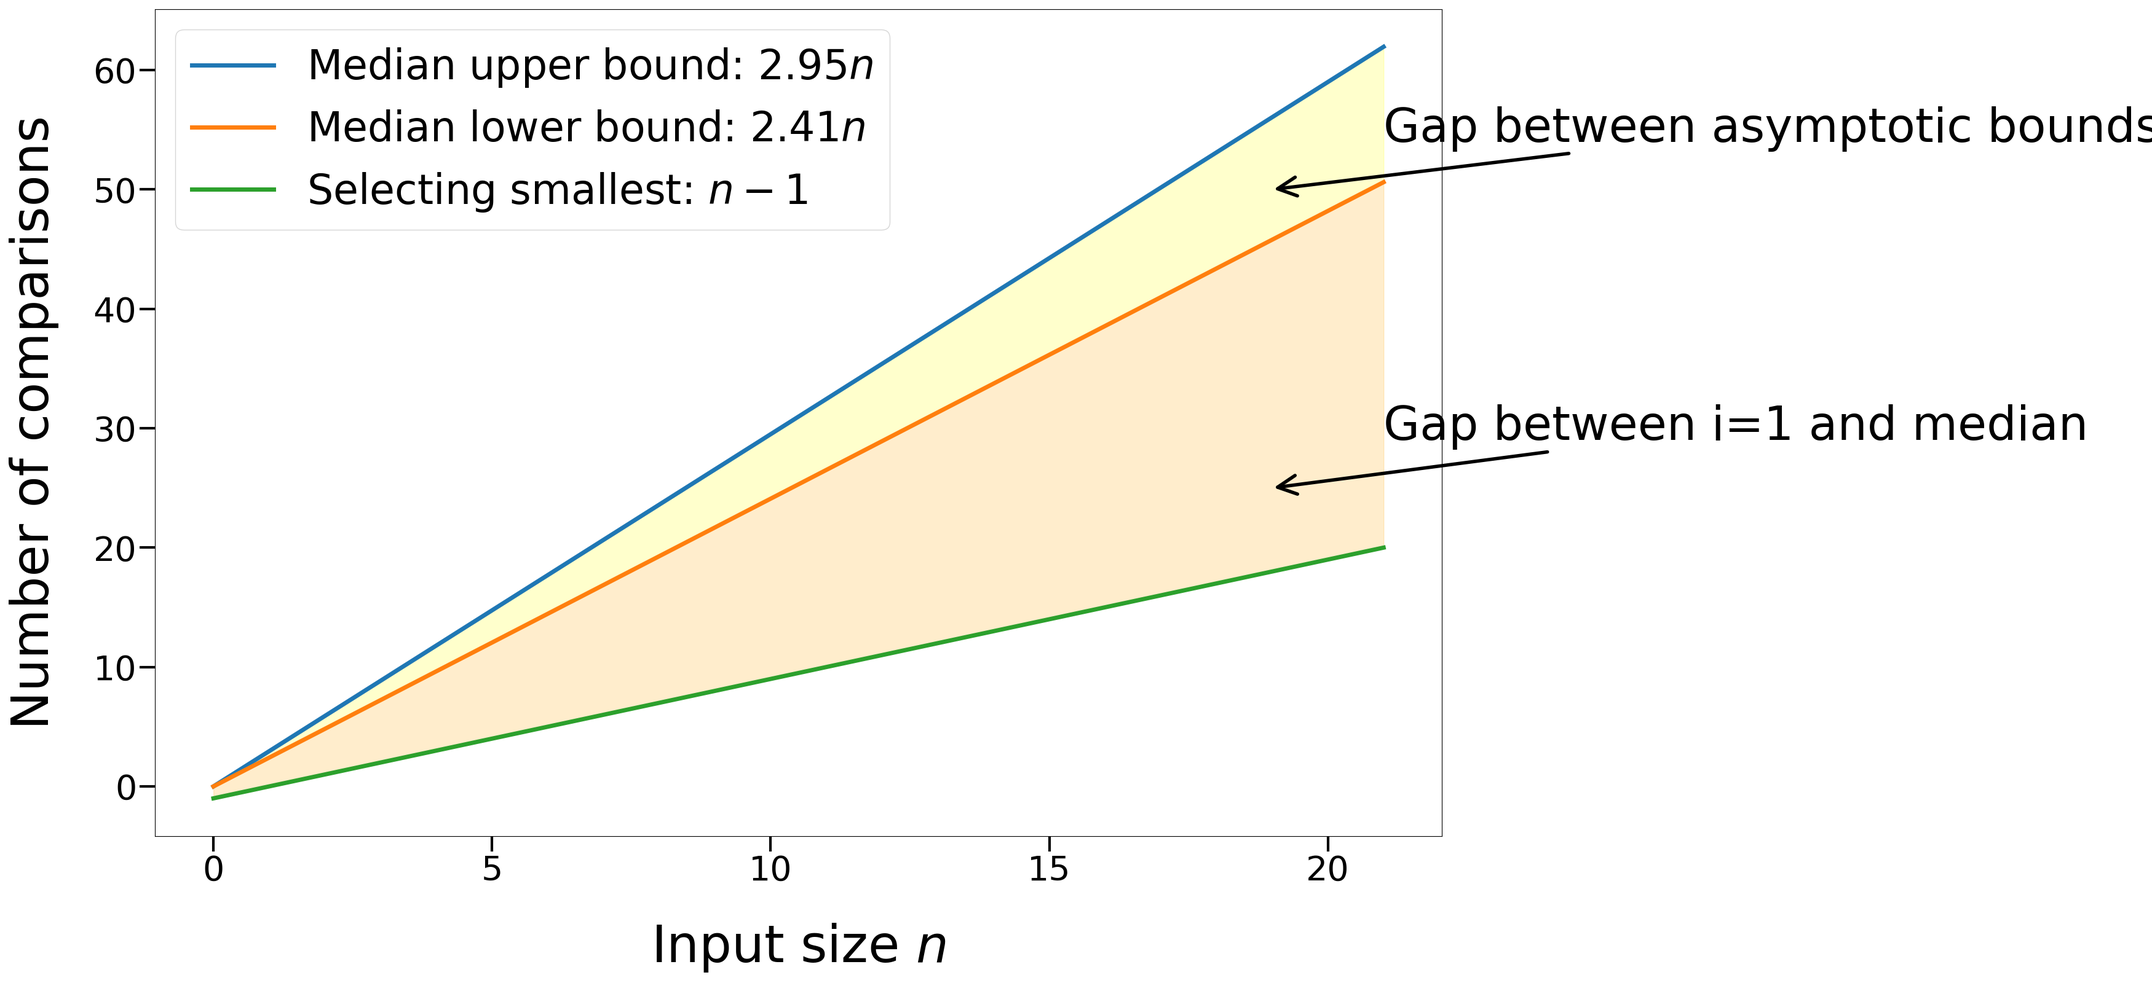
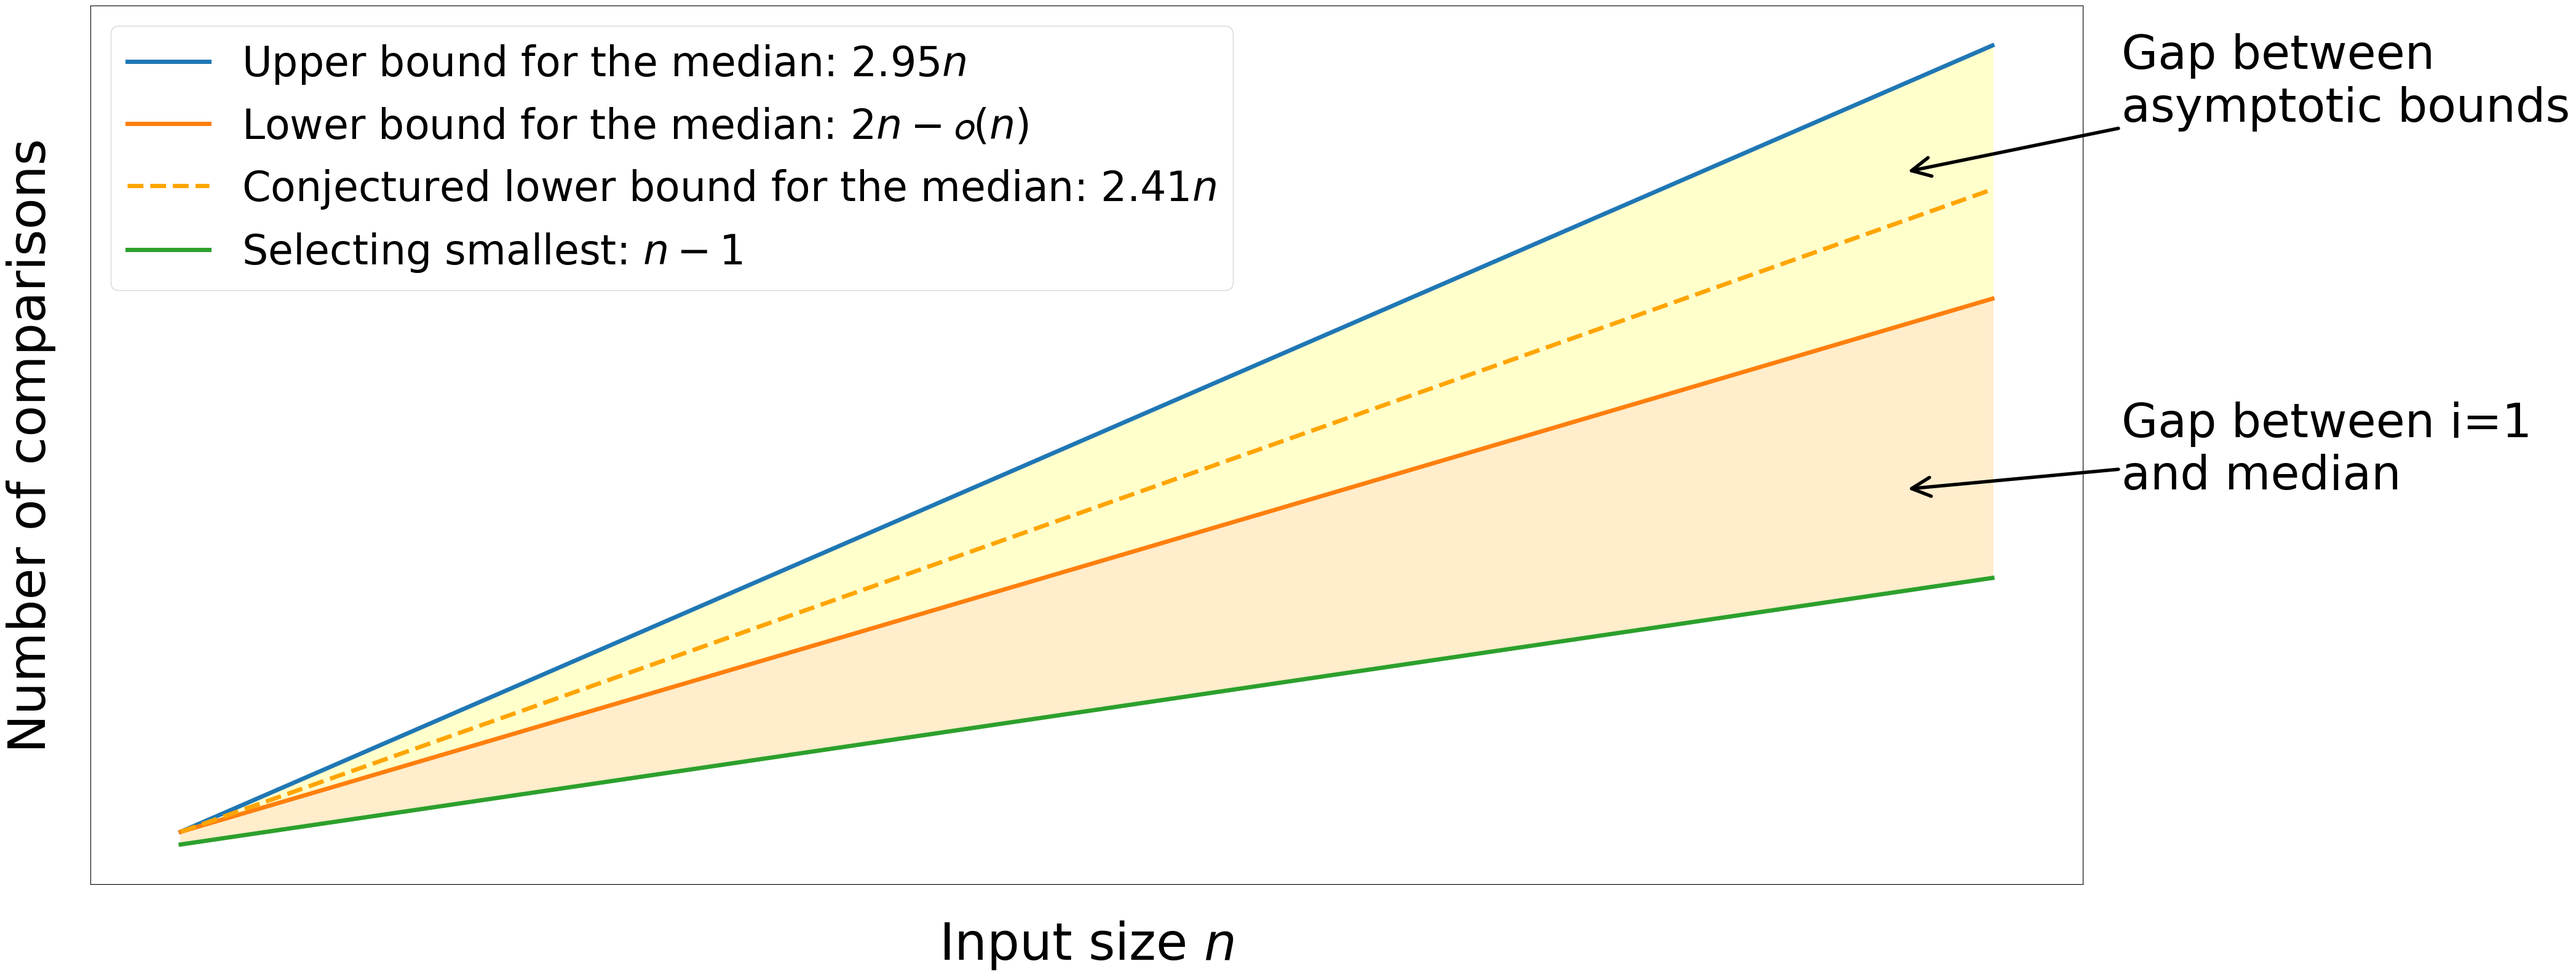
clarify conjectured lower bound

diff --git a/tex/presentation-sea/figures/bounds_diagram.py b/tex/presentation-sea/figures/bounds_diagram.py
@@ -5,30 +5,30 @@ import numpy as np
 n = np.linspace(0, 21, 100)  # Sample n values
 
 # Plot lines
-plt.figure(figsize=(35,16))
-plt.plot(n, 2.95 * n, label='Median upper bound: $2.95n$', linewidth=5)
-plt.plot(n, 2.41 * n, label='Median lower bound: $2.41n$', linewidth=5)
+plt.figure(figsize=(42,16))
+plt.plot(n, 2.95 * n, label='Upper bound for the median: $2.95n$', linewidth=5)
+plt.plot(n, 2* n, label='Lower bound for the median: $2n - \mathcal{o}(n)$', linewidth=5)
+plt.plot(n, 2.41 * n, label='Conjectured lower bound for the median: $2.41n$', linestyle='--', color='orange',linewidth=5 )
 plt.plot(n, n - 1, label='Selecting smallest: $n-1$', linewidth=5)
 
 # Shade the gap between lower and upper bounds
-plt.fill_between(n, n - 1, 2.41*n, alpha=0.2, color='orange')
-plt.fill_between(n, 2.41 * n, 2.95 * n, alpha=0.2, color='yellow')
+plt.fill_between(n, n - 1, 2*n, alpha=0.2, color='orange')
+plt.fill_between(n, 2* n, 2.95 * n, alpha=0.2, color='yellow')
 
 # Annotations
-mid_n = 19
-mid_val = 50
-plt.annotate('Gap between asymptotic bounds',
+mid_n = 20
+mid_val = 52
+plt.annotate('Gap between\nasymptotic bounds',
              xy=(mid_n, mid_val),
-             xytext=(mid_n + 2, mid_val + 4),
+             xytext=(mid_n + 2.5, mid_val+4),
              arrowprops=dict(arrowstyle='->',color='black', linewidth=4),
              fontsize=55,
              )
 
-mid_n = 19
-mid_val = 25
-plt.annotate('Gap between i=1 and median',
+mid_val = 27
+plt.annotate('Gap between i=1\nand median',
              xy=(mid_n, mid_val),
-             xytext=(mid_n + 2, mid_val + 4),
+             xytext=(mid_n + 2.5, mid_val),
              arrowprops=dict(arrowstyle='->',color='black', linewidth=4),
              fontsize=55,
              )
@@ -37,9 +37,10 @@ plt.annotate('Gap between i=1 and median',
 plt.xlabel('Input size $n$', fontsize=60, labelpad=40)
 plt.ylabel('Number of comparisons', fontsize=60, labelpad=40)
 plt.tick_params(axis='both', length=18, width=3, labelsize=40)
-plt.xticks(np.arange(0, 21, 5), fontsize=40)
+plt.xticks([], labels=[], fontsize=40)
+plt.yticks([])
 plt.legend(fontsize=48)
 plt.tight_layout()
 
 # Display
-plt.savefig("tex/presentation-sea/figures/bounds_diagram.png")
+plt.savefig("tex/presentation-sea/figures/bounds_diagram.png", bbox_inches='tight')

diff --git a/tex/presentation-sea/slides.tex b/tex/presentation-sea/slides.tex
@@ -52,8 +52,9 @@
   \begin{itemize}
     \item<+-> Let $V_i^n$ be the worst-case number of comparisons for an optimal algorithm.
     \item<+-> Selecting the minimum is simple: $V_1^n= n-1$.
-    \item<+-> The best-known upper bound for selecting the median is $\approx 2.95n$ comparisons.
-    \item<+-> The assumed lower bound for the median is $\approx 2.41n$ comparisons (Schönhage et al.).
+    \item<+-> The best-known upper bound for selecting the median is $\approx 2.95n$.
+    \item<+-> The proven lower bound for the median is $2n$ (Bent and John).
+    \item<+-> A conjectured lower bound for the median is $\approx 2.41n$ (Schönhage et al.).
   \end{itemize}
   \timenote{
     \begin{itemize}
@@ -70,6 +71,7 @@
 
 \sub{1}{0}
 \begin{frame}{Complexity of the Selection Problem}
+  \setlength{\abovecaptionskip}{-1pt}
   \begin{figure}
     \includegraphics[height=0.7\textheight]{figures/bounds_diagram.png}
     \caption{\small Complexity Bounds for the Selection Problem}
